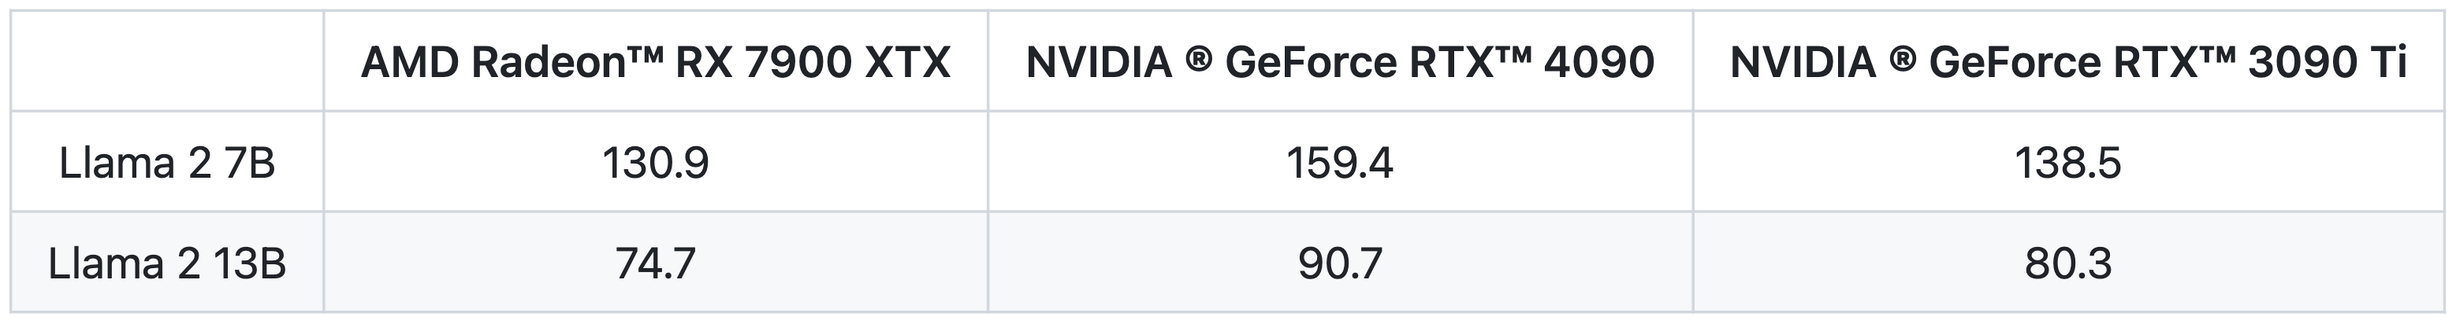
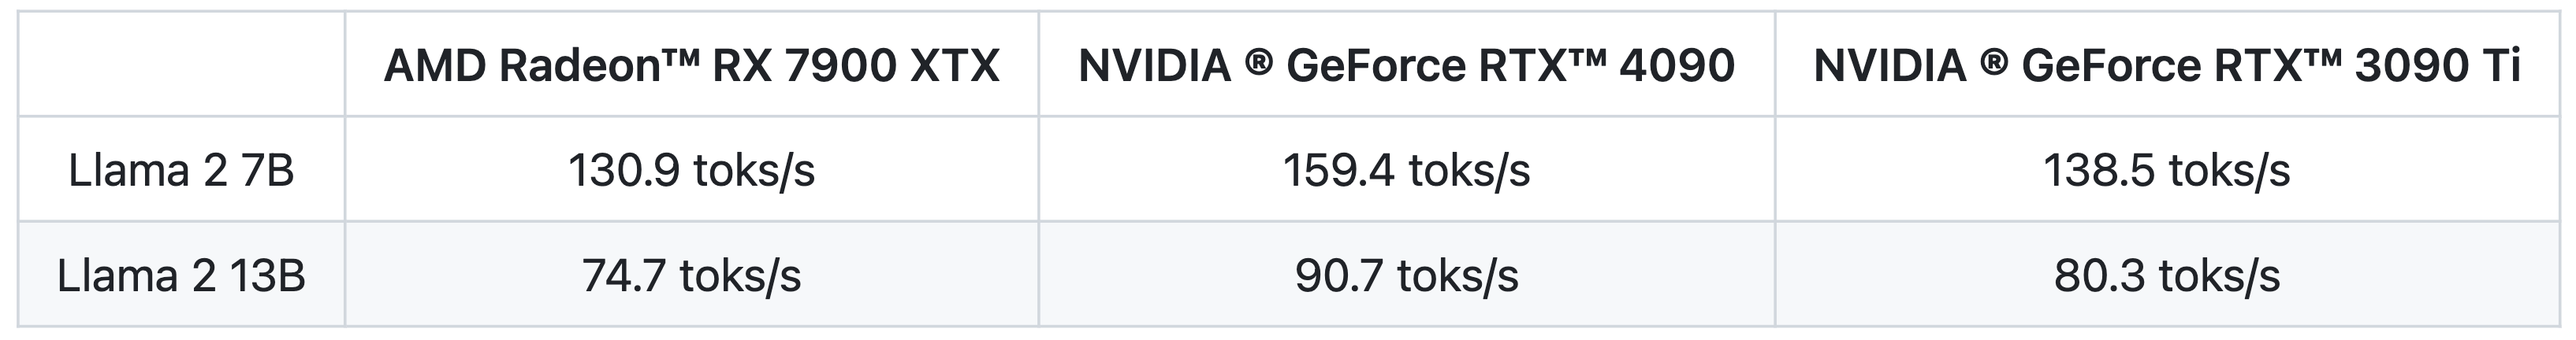
amd

diff --git a/_posts/2023-08-08-CUDA-level-Performance-LLM-Inference-on-AMD-GPU.md b/_posts/2023-08-08-CUDA-level-Performance-LLM-Inference-on-AMD-GPU.md
@@ -101,10 +101,10 @@ All the results are measured for single batch inference.
   <img src="/img/amd/perf.png" width="90%">
 </p>
 
-|             | AMD Radeon™ RX 7900 XTX | NVIDIA ® GeForce RTX™ 4090 | NVIDIA ® GeForce RTX™ 3090 Ti |
+<!-- |             | AMD Radeon™ RX 7900 XTX | NVIDIA ® GeForce RTX™ 4090 | NVIDIA ® GeForce RTX™ 3090 Ti |
 |:-----------:|:-----------------------:|:--------------------------:|:-----------------------------:|
 |  Llama 2 7B |       130.9 toks/s      |        159.4 toks/s        |          138.5 toks/s         |
-| Llama 2 13B |       74.7 toks/s       |         90.7 toks/s        |          80.3 toks/s          |
+| Llama 2 13B |       74.7 toks/s       |         90.7 toks/s        |          80.3 toks/s          | -->
 
 For single batch inference performance, it can reach 80%~85% of the speed of NVIDIA 4090 with the release of ROCm 5.6.
 
